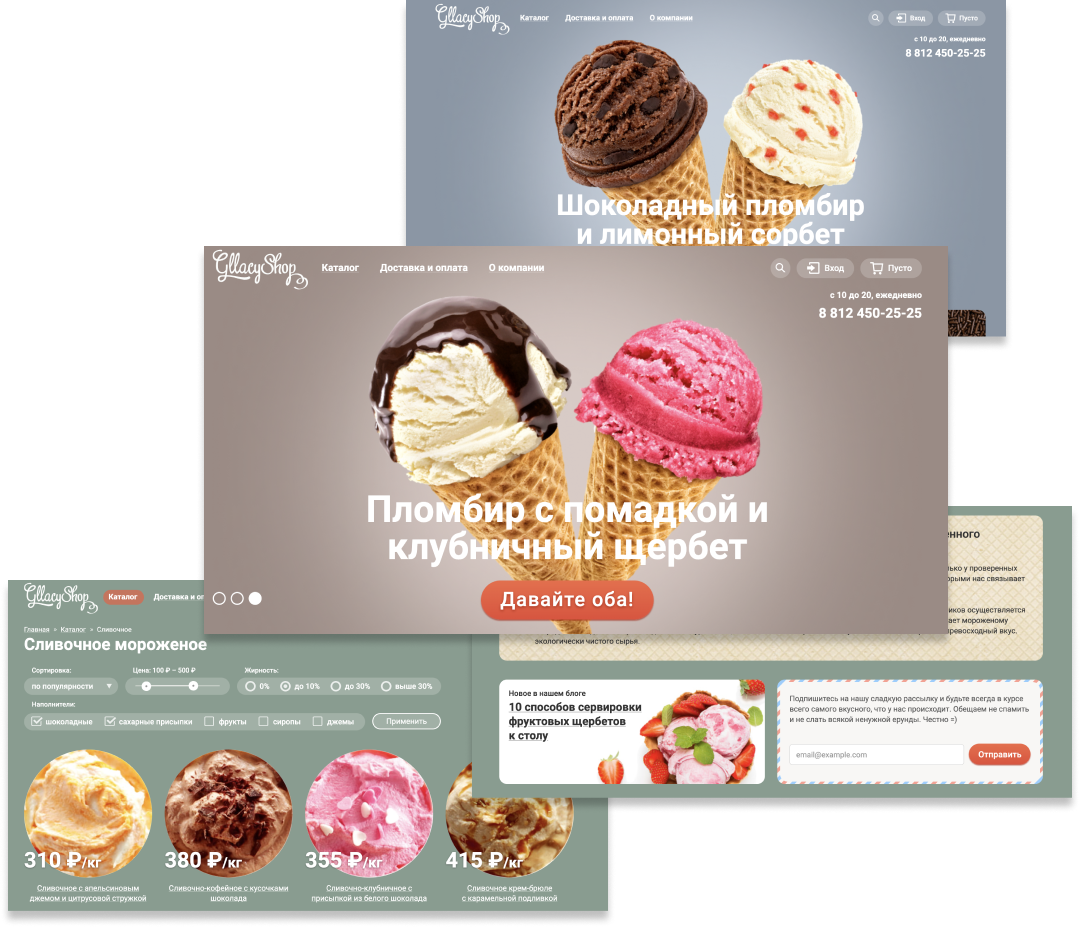
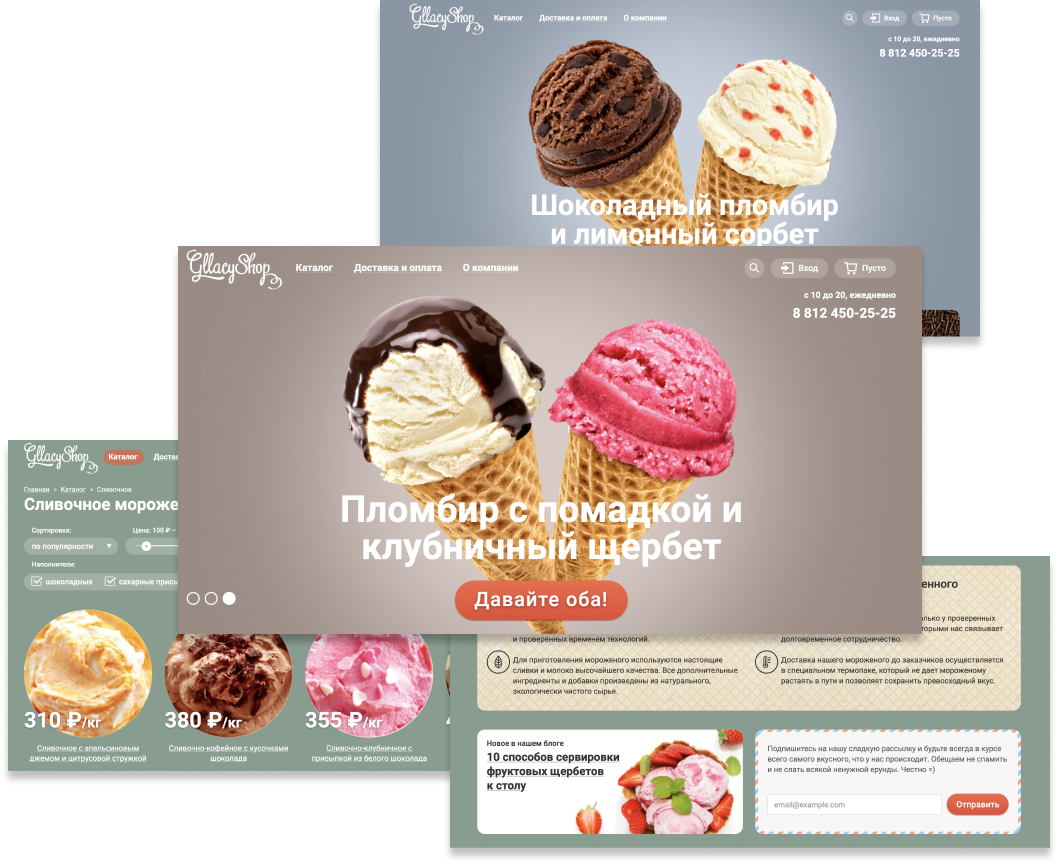
project text style updated

diff --git a/app/constants.tsx b/app/constants.tsx
@@ -31,8 +31,11 @@ export const ProjectsData = [
     title: "Local Transport Company Web App",
     description:
       "This project enhances user experience for customers and drivers by connecting them through a multi-role web application.",
-    skillset:
-      "Using React.js, TypeScript, and Material UI, I implemented responsive interfaces and provide ongoing support to ensure the application functions correctly.",
+    skillset: [
+      "Using ",
+      <strong key="1">React.js, TypeScript, and Material UI</strong>,
+      ", I implemented responsive interfaces and provide ongoing support to ensure the application functions correctly.",
+    ],
     image: {
       src: "/img/project_iujex.png",
       width: 527,
@@ -65,8 +68,11 @@ export const ProjectsData = [
     title: "Local Bank Web App",
     description:
       "This project enhances the banking experience by providing tools for calculating mortgage and loan options.",
-    skillset:
-      "Using React, Redux, and Sass, I developed an  interface with efficient state management to ensure accurate calculations and a seamless user experience.",
+    skillset: [
+      "Using ",
+      <strong key="1">React, Redux, and Sass</strong>,
+      ", I developed an  interface with efficient state management to ensure accurate calculations and a seamless user experience.",
+    ],
     image: {
       src: "/img/project_ligabank.png",
       width: 516,
@@ -82,8 +88,11 @@ export const ProjectsData = [
     title: "Car Dealership Website",
     description:
       "This project improves the user experience for car buyers by providing a platform to explore vehicles and read customer reviews.",
-    skillset:
-      "Using React, Redux, and Sass, I developed an  interface that allows seamless browsing and effective state management for enhanced functionality.",
+    skillset: [
+      "Using ",
+      <strong key="1">React, Redux, and Sass</strong>,
+      ", I developed an  interface that allows seamless browsing and effective state management for enhanced functionality.",
+    ],
     image: {
       src: "/img/project_avtomoto.png",
       width: 496,
@@ -99,8 +108,11 @@ export const ProjectsData = [
     title: "Cat Food Manufacturer Website",
     description:
       "This project provides a responsive and adaptive web site for innovative cat food  and facilitates orders through catalog and order form.",
-    skillset:
-      "Using HTML5, LESS, and BEM methodology, I implemented clean and maintainable code to create an engaging and user-friendly interface.",
+    skillset: [
+      "Using ",
+      <strong key="1">HTML5, LESS, and BEM methodology</strong>,
+      ", I implemented clean and maintainable code to create an engaging and user-friendly interface.",
+    ],
     image: {
       src: "/img/project_catenergy.png",
       width: 550,
@@ -116,12 +128,15 @@ export const ProjectsData = [
     title: "Ice-Cream Parlour Website",
     description:
       "This project enhances user experience for customers and drivers by connecting them through a multi-role web application.",
-    skillset:
-      "Using HTML5 and CSS3, I built a visually appealing interface to engage users and highlight the brand’s offerings.",
+    skillset: [
+      "Using ",
+      <strong key="1">HTML5 and CSS3</strong>,
+      ", I built a visually appealing interface to engage users and highlight the brand’s offerings.",
+    ],
     image: {
       src: "/img/project_gllacy.png",
-      width: 540,
-      height: 464,
+      width: 521,
+      height: 423,
       alt: "Gllacy Project",
     },
     url: "https://mantuok.github.io/gllacy-parlour/",

diff --git a/app/components/Projects/projects.tsx b/app/components/Projects/projects.tsx
@@ -14,7 +14,7 @@ type Project = {
   name: string;
   title: string;
   description: string;
-  skillset: string;
+  skillset: (string | JSX.Element)[];
   image: ImageData;
   url: string;
   github: string;
@@ -37,18 +37,25 @@ const Projects = ({ project }: ProjectsProps) => {
       </h2>
       <div className={styles["projects-wrapper-bottom"]}>
         <div className={styles["projects-wrapper-left"]}>
-          <Image
-            src={image.src}
-            width={image.width}
-            height={image.height}
-            alt={image.alt}
-          />
+          <div className={styles["projects-image-wrapper"]}>
+            <Image
+              className={styles["projects-image"]}
+              src={image.src}
+              width={image.width}
+              height={image.height}
+              alt={image.alt}
+            />
+          </div>
         </div>
         <Divider />
         <div className={styles["projects-wrapper-right"]}>
           <h3 className={styles["heading-3"]}>{title}</h3>
-          <p className={styles["projects-text"]}>{description}</p>
-          <p className={styles["projects-text"]}>{skillset}</p>
+          <p className={`${styles["projects-text"]} ${styles["text-sm"]}`}>
+            {description}
+          </p>
+          <p className={`${styles["projects-text"]} ${styles["text-sm"]}`}>
+            {skillset}
+          </p>
         </div>
       </div>
     </section>

diff --git a/app/components/Projects/projects.module.scss b/app/components/Projects/projects.module.scss
@@ -10,7 +10,6 @@
   justify-items: center;
   gap: 45px;
   height: 100vh;
-  padding-top: 60px;
 }
 
 .projects-wrapper-bottom {
@@ -26,12 +25,32 @@
   width: 50%; 
 }
 
+.projects-wrapper-left {
+	display: flex;
+	justify-content: flex-end;
+	padding-right: 60px;
+}
+
 .projects-buffer {
   height: 60px;
   width: 100%;
 }
 
-.project-text {
-  width: 70%;
+.projects-text {
+  width: 80%;
   letter-spacing: 3px;
+}
+
+.projects-image-wrapper {
+	position: relative;
+  width: 360px;
+  height: 360px;
+  background-color: $secondary-color;
+}
+
+.projects-image {
+	position: absolute;
+	top: -30px;
+	right: -30px;
+	z-index: 1;
 }

diff --git a/app/styles/typography.scss b/app/styles/typography.scss
@@ -25,6 +25,12 @@
   color: $secondary-color;
 }
 
+.text-sm {
+  font-size: 14px;
+  font-weight: 300;
+  letter-spacing: 2px;
+}
+
 .link {
   position: relative;
   font-size: 18px;
